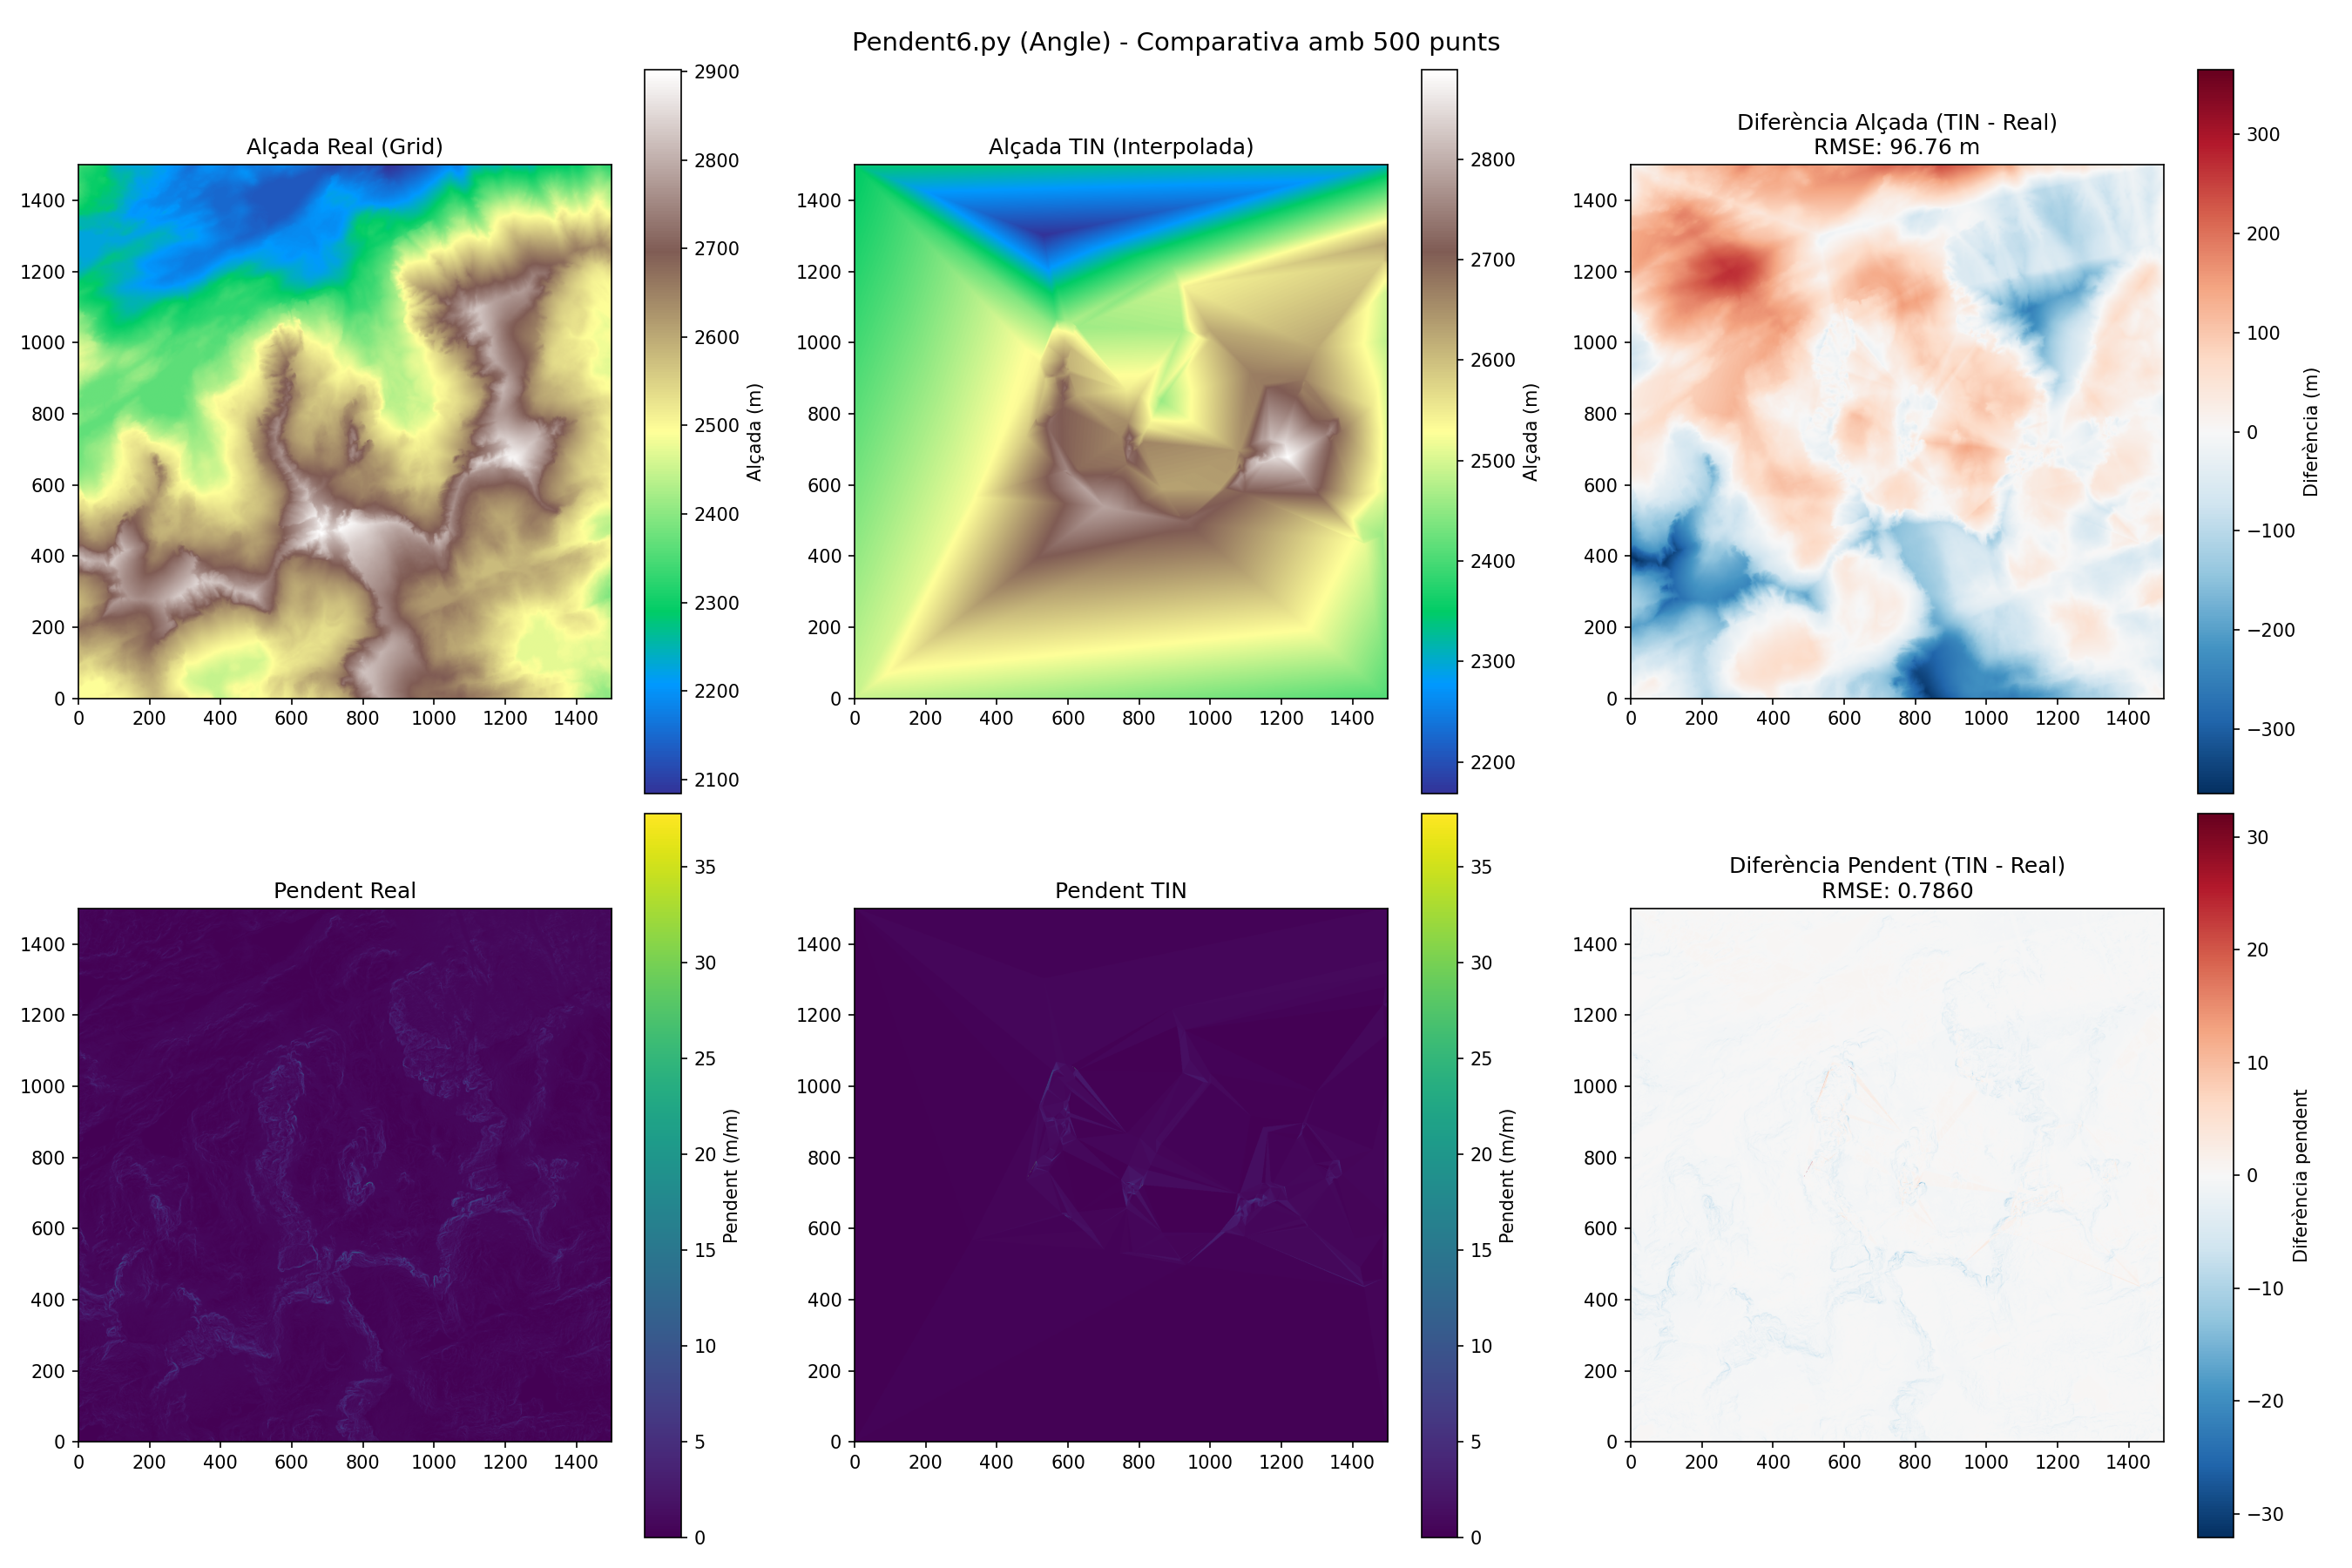
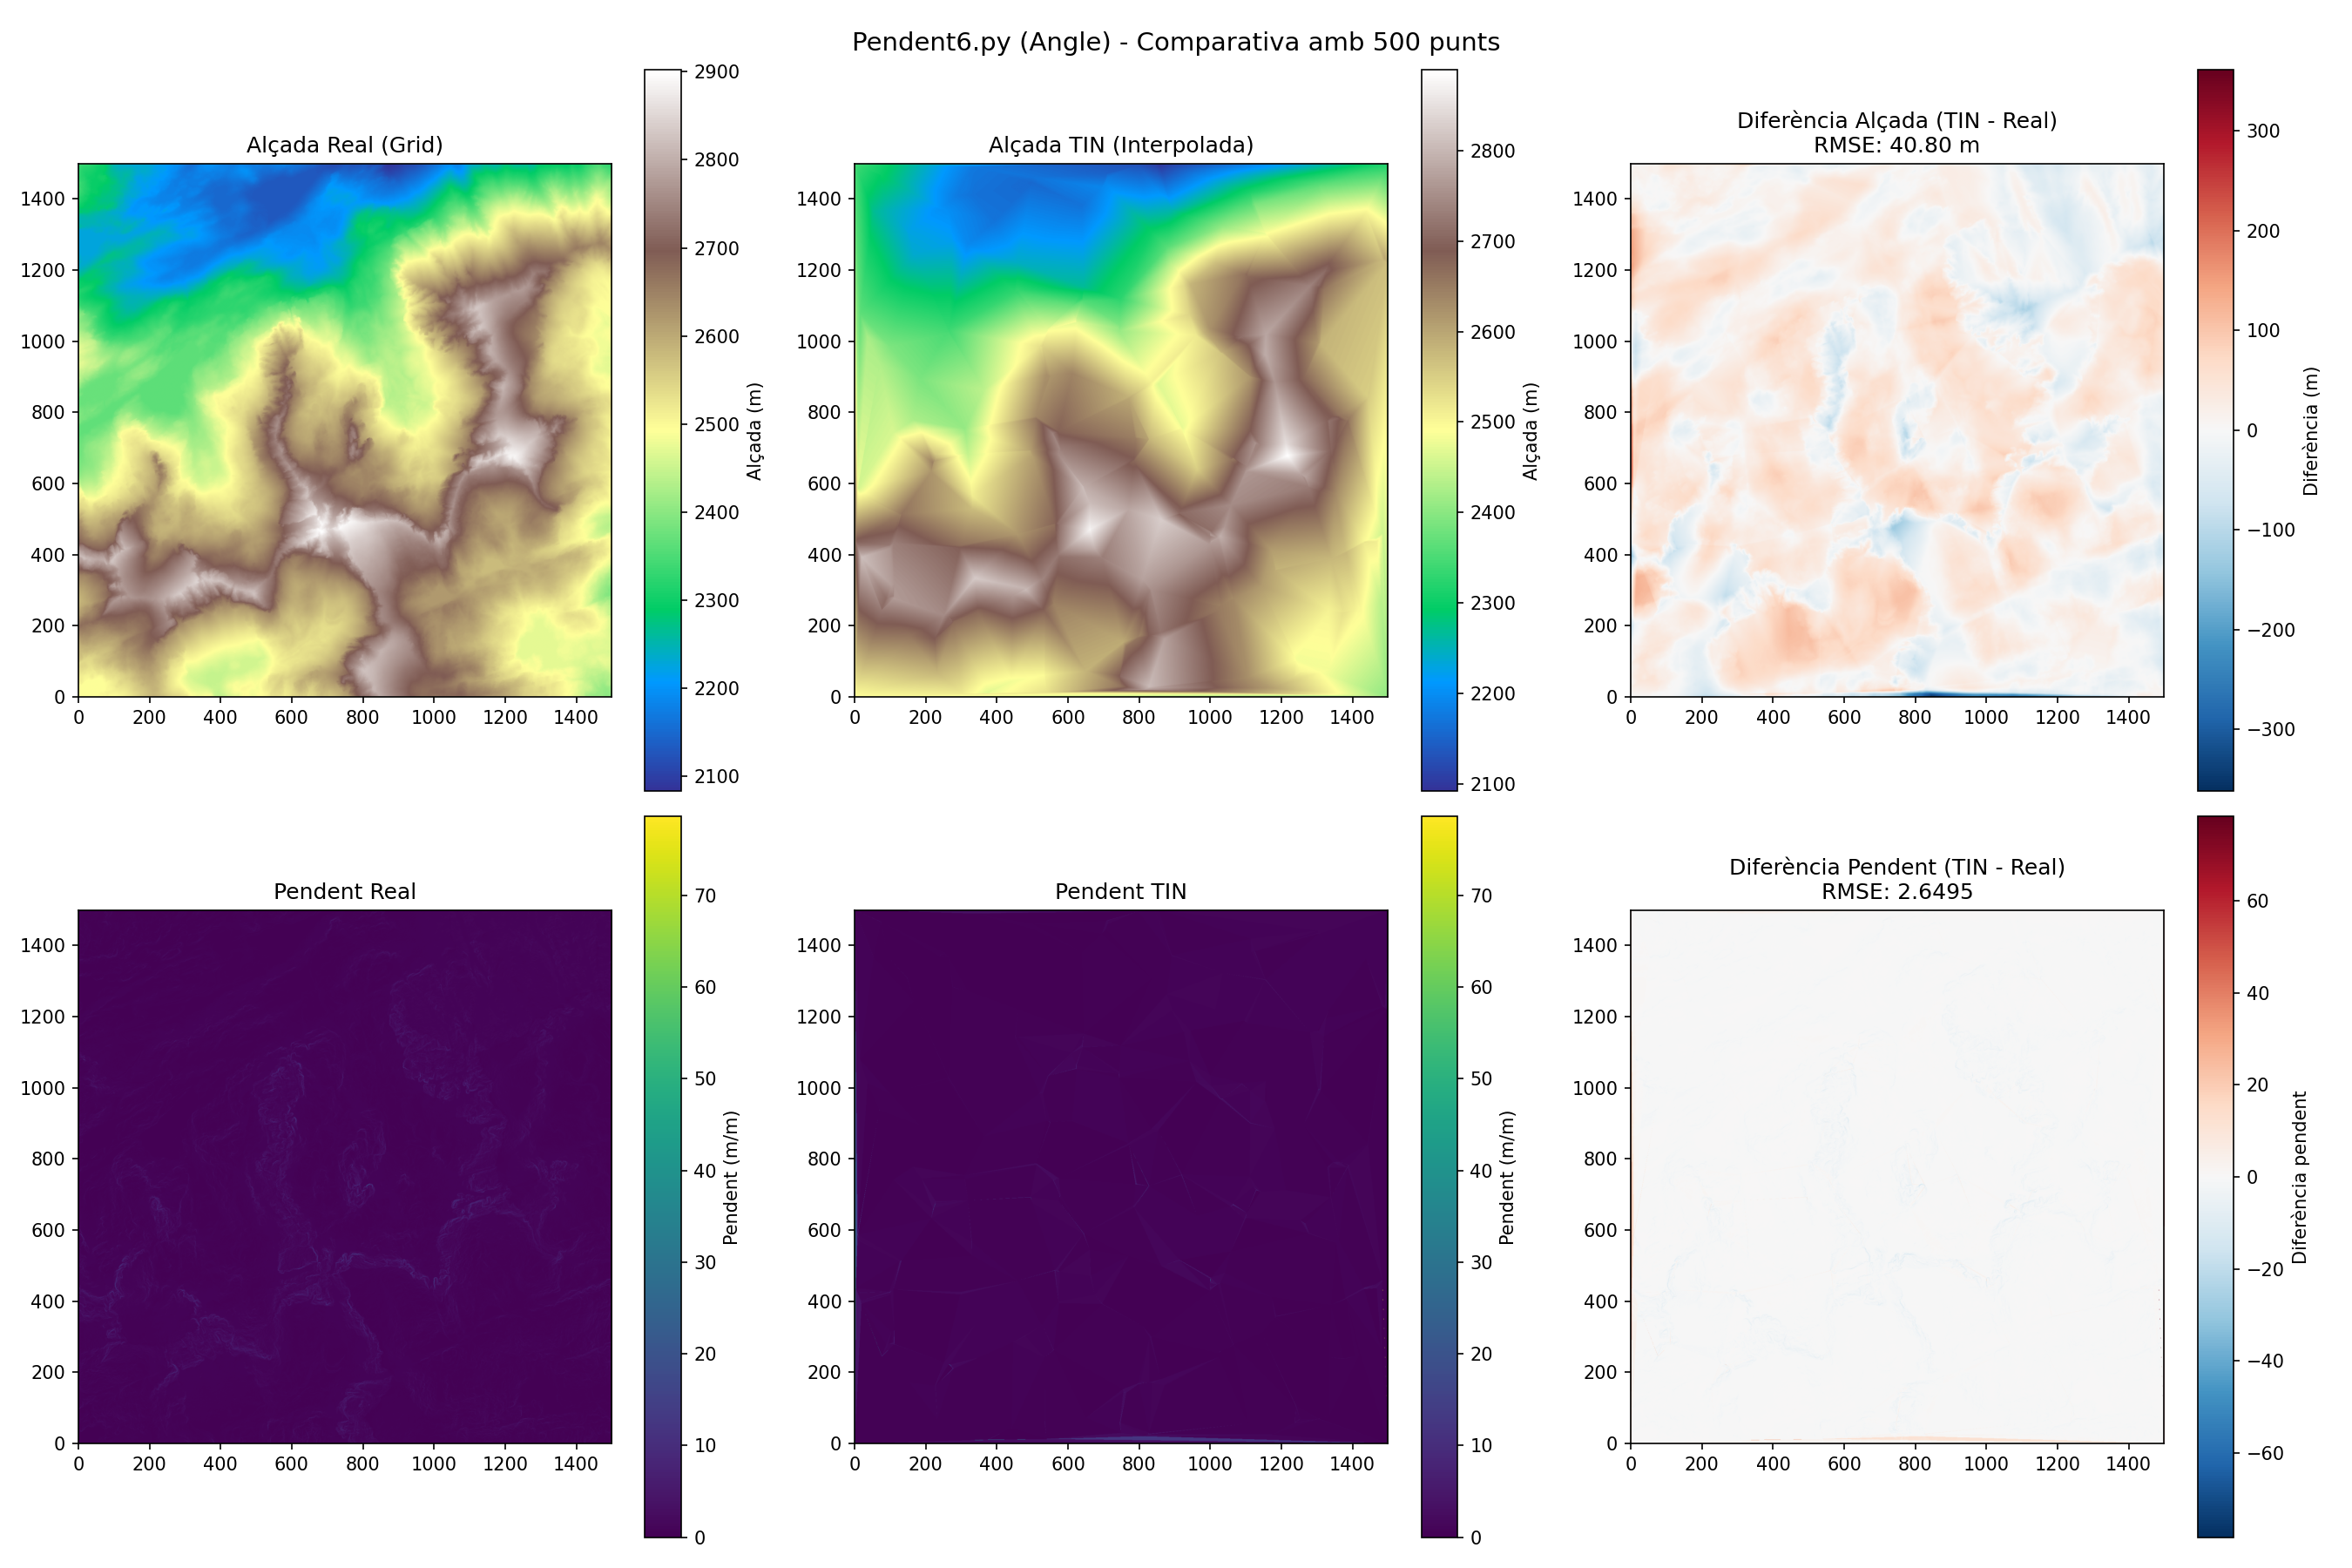
ponderacio

diff --git a/pendent6.py b/pendent6.py
@@ -96,6 +96,62 @@ class GridToTinIncremental:
         angles_deg = np.degrees(angles_rad)
         
         return angles_deg
+    
+    def _calculate_triangle_areas(self):
+        """
+        Calcula l'àrea de tots els triangles actuals del TIN
+        Fórmula Shoelace: Area = 0.5 * |x1(y2-y3) + x2(y3-y1) + x3(y1-y2)|
+        """
+        points = self.tin.points
+        simplices = self.tin.simplices
+        
+        # Coordenades dels 3 vèrtexs per a cada triangle: [N_triangles, 3, 2]
+        tri_coords = points[simplices]
+        
+        x = tri_coords[:, :, 0]
+        y = tri_coords[:, :, 1]
+        
+        area = 0.5 * np.abs(
+            x[:,0]*(y[:,1] - y[:,2]) + 
+            x[:,1]*(y[:,2] - y[:,0]) + 
+            x[:,2]*(y[:,0] - y[:,1])
+        )
+        return area
+    
+    def _calculate_weighted_angular_error(self, candidate_indices):
+        """
+        Calcula l'error angular ponderat per l'àrea del triangle.
+        Això evita la concentració de punts en zones petites amb errors grans.
+        
+        Score = angular_error * sqrt(triangle_area)
+        
+        Usem sqrt(area) per equilibrar: penalitzem triangles grans però sense
+        ignorar completament els errors en triangles mitjans.
+        """
+        # 1. Error angular pur
+        angular_errors = self._calculate_angular_error(candidate_indices)
+        
+        # 2. Trobar a quin triangle pertany cada candidat
+        rows, cols = np.divmod(candidate_indices, self.cols)
+        x = cols * self.step * self.pixel_size
+        y = rows * self.step * self.pixel_size
+        coords = np.column_stack((x, y))
+        
+        simplex_ids = self.tin.find_simplex(coords)
+        
+        # 3. Calcular àrees de tots els triangles
+        all_areas = self._calculate_triangle_areas()
+        
+        # 4. Assignar àrea corresponent a cada candidat
+        candidate_areas = np.zeros(len(candidate_indices))
+        valid_mask = simplex_ids != -1
+        candidate_areas[valid_mask] = all_areas[simplex_ids[valid_mask]]
+        
+        # 5. PONDERACIÓ HÍBRIDA: Error * sqrt(Area)
+        # sqrt(area) és equivalent a ponderar per longitud d'aresta típica
+        weighted_score = angular_errors * np.sqrt(candidate_areas)
+        
+        return weighted_score
 
     def _get_coords_from_index(self, idx_flat):
         # Converteix índex pla a coordenades X,Y i alçada Z
@@ -332,45 +388,20 @@ class GridToTinIncremental:
         while len(self.tin.points) < self.target_point_count and len(candidate_indices) > 0:
             iteration += 1
             
-            # Càlculs d'error (igual que abans)
-            cand_arr = np.array(candidate_indices)
-            r, c = np.divmod(cand_arr, self.cols)
-            # real_slopes = self.slope_grid[r, c]
-            # tin_slopes = self._interpolate_tin_slope_at_indices(cand_arr)
-            # errors = np.nan_to_num(np.abs(real_slopes - tin_slopes))
+            # CÀLCUL D'ERROR PONDERAT PER ÀREA
+            # Això evita concentració en triangles petits amb errors grans
+            weighted_errors = self._calculate_weighted_angular_error(candidate_indices)
             
-            # Calculem directament l'error angular (en graus)
-            errors = self._calculate_angular_error(candidate_indices)
-            
-            worst_local_idx = np.argmax(errors)
+            worst_local_idx = np.argmax(weighted_errors)
             worst_global_idx = candidate_indices[worst_local_idx]
-            max_error = errors[worst_local_idx]
+            max_weighted_error = weighted_errors[worst_local_idx]
             
-            # DEBUG: mostrar errors de tots els candidats per entendre la distribució
-            # if iteration <= 5:
-            #     print(f"\nIteració {iteration}:")
-            #     print(f"  Errors de candidats: min={errors.min():.4f}, max={errors.max():.4f}, mean={errors.mean():.4f}")
-            #     print(f" ALçada dels punts de cada triangle:")
-            #     for tri_idx, simplex in enumerate(self.tin.simplices):
-            #         z_vals = [self.tin_z_values[v_idx] for v_idx in simplex]
-            #         print(f"  Triangle {tri_idx}: z = {z_vals}")
-            #     print(f"  Nombre triangles: {len(self.tin.simplices)}")
-            #     print(f"  Punts TIN: {len(self.tin.points)}")
-            #     # Mostrar punts amb error > 1 grau
-            #     high_error_mask = errors > 1.0
-            #     if np.any(high_error_mask):
-            #         high_error_indices = np.array(candidate_indices)[high_error_mask]
-            #         print(f"  Punts amb error > 1 grau: {high_error_indices[:5]}...")  # Mostrar primers 5
-            #         for idx in high_error_indices[:3]:
-            #             r, c = divmod(idx, self.cols)
-            #             z_val = self.h_grid[r, c]
-            #             print(f"    Punt idx={idx}, pos=({r},{c}), z={z_val:.1f}, error={errors[candidate_indices.index(idx)]:.2f}°")
-            
-            # Imprimir solo cada 10 iteraciones
+            # Per debug: també calculem l'error angular pur
             if iteration % 10 == 0:
-                print(f"Iteració {iteration}: max_error = {max_error:.6f} graus, punts totals = {len(self.tin.points)}")
-            
-            if max_error <= 0.001: break
+                pure_angular = self._calculate_angular_error(candidate_indices)
+                max_pure_error = pure_angular[worst_local_idx]
+                print(f"Iteració {iteration}: weighted_error = {max_weighted_error:.2f}, "
+                      f"angular_error = {max_pure_error:.2f}°, punts = {len(self.tin.points)}")
                 
             new_xy, new_z = self._get_coords_from_index(worst_global_idx)
             
@@ -444,19 +475,23 @@ class GridToTinIncremental:
         while len(self.tin.points) < self.target_point_count and len(candidate_indices) > 0:
             iteration += 1
             
-            errors = self._calculate_angular_error(candidate_indices)
+            # Usar error ponderat per àrea
+            weighted_errors = self._calculate_weighted_angular_error(candidate_indices)
             
-            worst_local_idx = np.argmax(errors)
+            worst_local_idx = np.argmax(weighted_errors)
             worst_global_idx = candidate_indices[worst_local_idx]
-            max_error = errors[worst_local_idx]
+            
+            # Calcular error angular pur per visualització
+            angular_errors = self._calculate_angular_error(candidate_indices)
+            max_error = angular_errors[worst_local_idx]
             
             if iteration % 10 == 0:
                 print(f"  Iter {iteration}: Error màx = {max_error:.2f}°")
             
-            # Generar snapshot d'error
+            # Generar snapshot d'error (usar errors angulars purs per visualització)
             if iteration % snapshot_interval == 0:
                 self._save_error_snapshot(snapshot_dir, iteration, candidate_indices, 
-                                         errors, worst_local_idx, spacing)
+                                         angular_errors, worst_local_idx, spacing)
             
             new_xy, new_z = self._get_coords_from_index(worst_global_idx)
             self.tin.add_points([new_xy])

diff --git a/video_comparison.py b/video_comparison.py
@@ -207,7 +207,7 @@ def create_side_by_side_video(npy_file, target_points=500, output_file='video_co
 
 if __name__ == '__main__':
     NPY_FILE = 'bassiero.npy'
-    TARGET_POINTS = 2000
+    TARGET_POINTS = 500
     
     print("="*70)
     print("GENERACIÓ DE VÍDEOS COMPARATIUS")